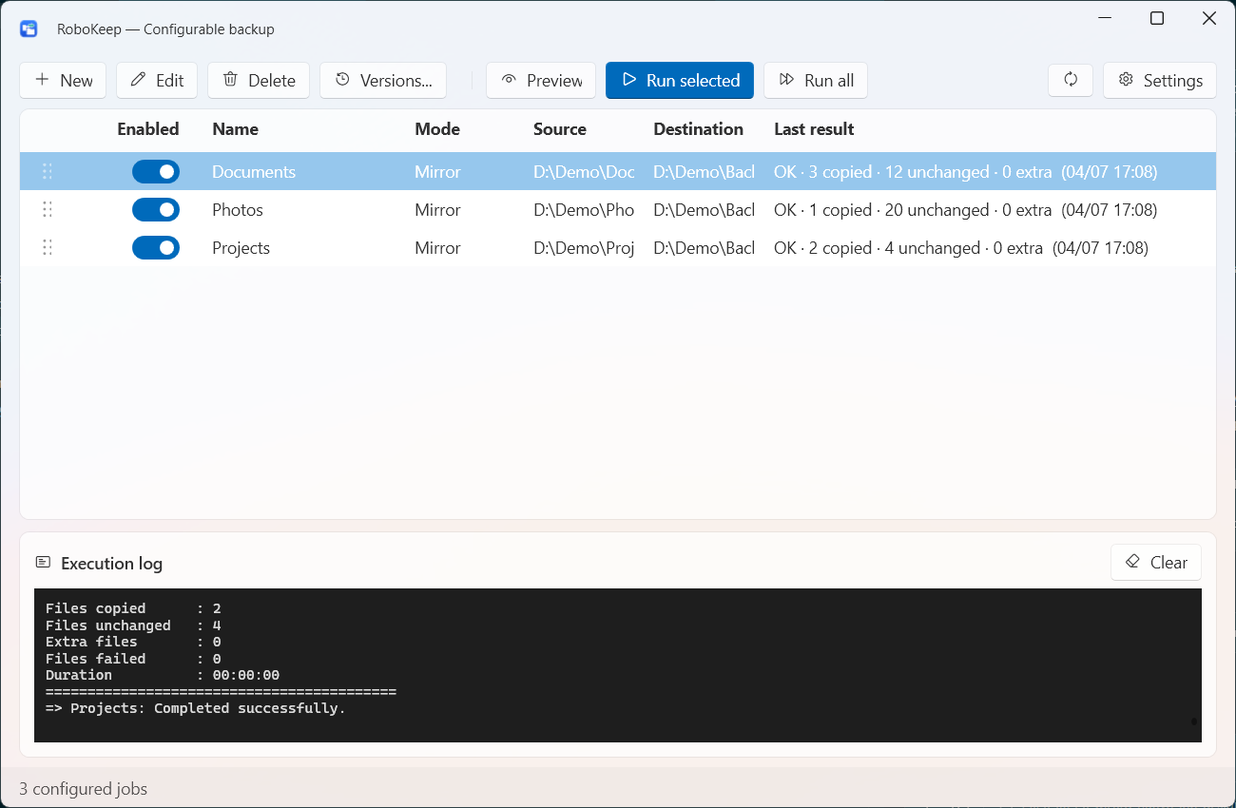
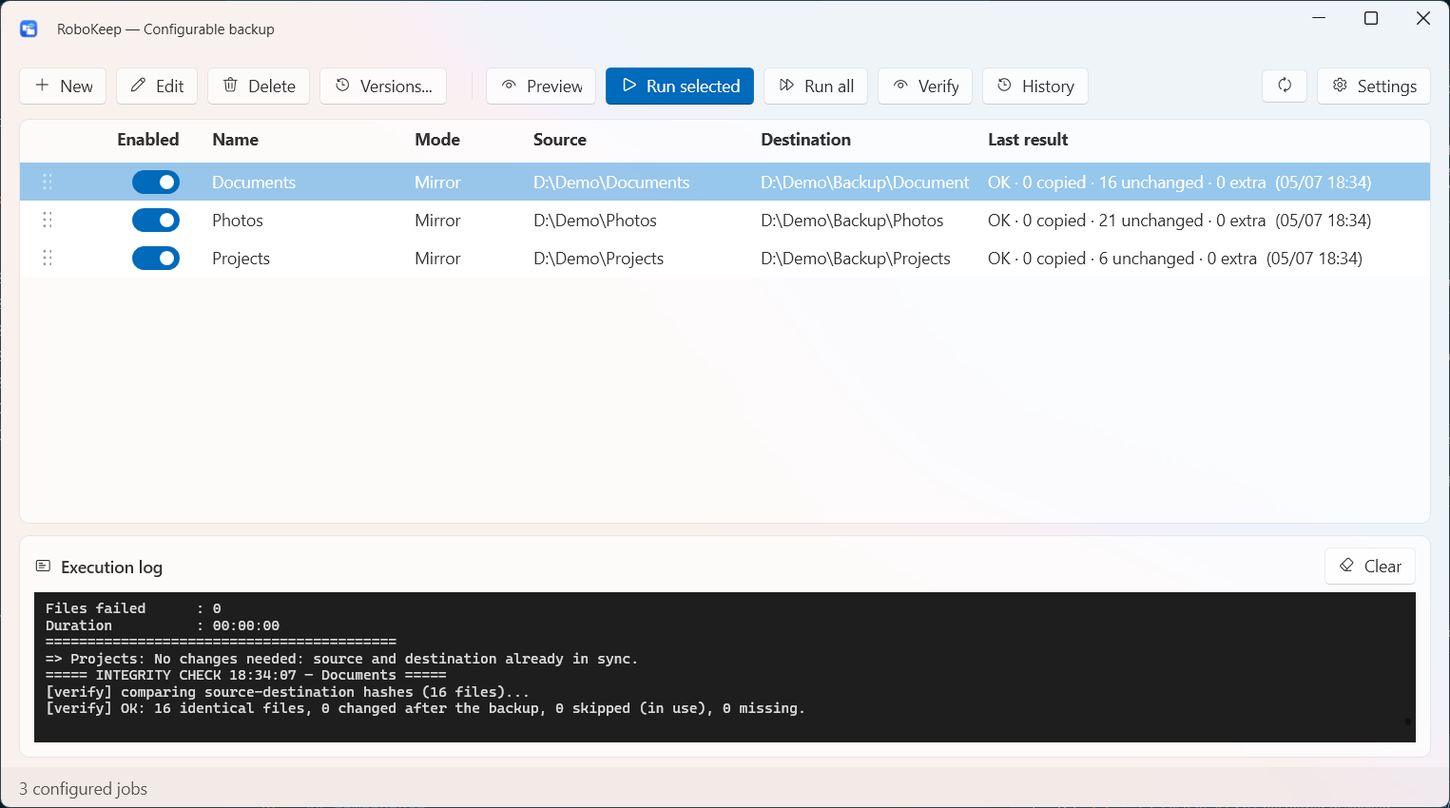
docs: README e ANALISI aggiornati alla 1.4 con nuovi screenshot
README: prova matematica, pianificazione per-job e cronologia tra i punti
di forza, galleria con cronologia ed editor pianificazione.
ANALISI: riscritta come storia del progetto - strumenti nativi, decisioni
ingegneristiche per tappa, processo di qualita, confini di scopo.

diff --git a/ANALISI.md b/ANALISI.md
@@ -1,97 +1,125 @@
-# RoboKeep — Obiettivo e scelte di progetto
+# RoboKeep — Obiettivo, scelte di progetto ed evoluzione
 
-Cosa si voleva ottenere e come è stato realizzato, sfruttando gli strumenti già presenti in Windows.
+Com'è nato, perché è fatto così, e le decisioni ingegneristiche che lo tengono in piedi.
 
 ## Obiettivo
 
-Partendo da alcuni semplici script batch personali costruiti attorno a **robocopy**, si voleva
-un'**applicazione desktop con interfaccia grafica** per gestire i backup/mirroring: la stessa copia
-affidabile di sempre, ma con la configurazione centralizzata in un unico file e modificabile da GUI,
-senza più editare script a mano.
+Tutto è partito da alcuni script batch personali costruiti attorno a **robocopy**: funzionavano,
+ma la configurazione era sparsa in decine di `.cmd` con percorsi duplicati, e ogni modifica
+significava editare script a mano. Il primo obiettivo era una **app desktop con interfaccia
+grafica**: stessa copia affidabile di sempre, configurazione centralizzata in un unico file,
+tutto modificabile da GUI.
 
-Comportamento di copia (per ogni job sorgente → destinazione, ricorsivo sulle sottocartelle):
-- **salta** i file identici (stessa data/ora di ultima modifica e dimensione);
-- **sovrascrive** in destinazione i file la cui sorgente è più recente;
-- in **mirror** (`/MIR`, default) **rimuove** dalla destinazione i file/cartelle non più presenti in sorgente;
-- con mirror disattivato (`/E`) copia e aggiorna soltanto, **senza mai cancellare**.
+Da lì la visione si è allargata: **un backup vero per Windows, di cui fidarsi** — che conserva
+uno **storico**, **avverte** quando qualcosa non va, copre anche i **file aperti** e permette di
+**verificare matematicamente** che le copie siano integre. Senza abbandonare ciò che lo rende
+solido: robocopy, locale, trasparente, portatile.
 
 ## Scelta di fondo: usare gli strumenti nativi di Windows
 
-L'idea guida è **non reinventare nulla e non aggiungere dipendenze esterne**:
+L'idea guida è **non reinventare nulla e non aggiungere dipendenze esterne**. Ogni funzione
+importante poggia su un pezzo di Windows collaudato da decenni:
 
-- **Motore di copia → il `robocopy` di sistema.** È già incluso in Windows, collaudato da anni,
-  multi-thread e **sempre aggiornato con Windows Update**. L'app si limita a costruire il comando
-  giusto, eseguirlo e leggerne l'esito — e ne mostra in **anteprima l'esatta riga di comando**, così
-  non è una scatola nera. Si usa `%WINDIR%\System32\Robocopy.exe`, non un eseguibile incluso a mano.
-- **Contorno → .NET nativo.** Compressione dei log (`System.IO.Compression`) e invio email
-  (`System.Net.Mail`) fatti direttamente in .NET, **senza tool esterni** di archiviazione o di posta.
-- **Piattaforma → .NET 10 (LTS) con WPF/MVVM.** Supporto a lungo termine e interfaccia desktop nativa Windows.
+| Funzione | Strumento nativo |
+|---|---|
+| Motore di copia | `robocopy` di sistema (multi-thread, sempre aggiornato con Windows Update) |
+| File aperti/bloccati | **Volume Shadow Copy** (snapshot del volume via WMI) |
+| Versioni senza sprecare spazio | **hard-link NTFS** (modello Time Machine/rsnapshot) |
+| Pianificazione | **Utilità di pianificazione** di Windows |
+| Password mai in chiaro | **DPAPI** (cifratura legata a macchina o utente) |
+| Compressione log, email, hash | .NET puro (`System.IO.Compression`, `System.Net.Mail`, SHA-256) |
 
-Perché non un programma di sincronizzazione già pronto (FreeFileSync, rsync e simili)? Perché si
-voleva **restare sul robocopy già in uso** e avere un'app cucita su questi job, senza imparare né
-dipendere da software di terzi: il valore aggiunto mancante non era il motore di copia, ma lo strato
-di **GUI + configurazione** sopra robocopy.
+L'app costruisce il comando giusto, lo esegue e ne legge l'esito — e mostra sempre in
+**anteprima l'esatta riga di comando**: non è una scatola nera. Perché non un sincronizzatore
+già pronto (FreeFileSync, rsync)? Perché il valore mancante non era il motore di copia, ma lo
+strato di **fiducia e usabilità** sopra robocopy: GUI, configurazione, storico, avvisi, verifica.
 
-## Design
+## Architettura
 
-App **WPF .NET 10 (MVVM)**, configurazione centralizzata in **un unico `config.json`** editabile da
-GUI. Due modalità d'uso:
-- **Interattiva (GUI):** gestione job, creazione guidata, avvio manuale, **anteprima/dry-run**, log e report.
-- **Silenziosa (CLI):** `RoboKeep.exe --run-all` / `--job "Nome"` → per le attività pianificate di Task Scheduler.
+App **WPF .NET 10 (MVVM)**, configurazione in **un unico `config.json`**. Due modalità:
+- **Interattiva (GUI):** gestione job, creazione guidata, anteprima/dry-run, log live, cronologia.
+- **Silenziosa (CLI):** `RoboKeep.exe --run-all` / `--job "Nome"` → usata dalle attività pianificate.
 
-### Architettura (3 progetti)
 ```
 src/
-  RoboKeep.Core/    libreria pura e testabile: Models + Services (engine, config, log, email, scheduler, credenziali, planner)
-  RoboKeep/         app WPF (Views + ViewModels + entry/CLI) → eseguibile RoboKeep.exe
-  RoboKeep.Tests/   xUnit (args builder, exit-code interpreter, config round-trip, planner forza copia/wizard, integrazione runner)
+  RoboKeep.Core/    libreria pura e testabile: Models + Services (engine, versioning, VSS,
+                    verifica, cronologia, scheduler, config, log, email, credenziali)
+  RoboKeep/         app WPF (Views + ViewModels + entry/CLI) → RoboKeep.exe
+  RoboKeep.Tests/   xUnit — 225 test sul cuore della logica
 ```
 
-Il cuore della logica è **puro e testabile** (nessun I/O): `RobocopyArgsBuilder` (opzioni →
-argomenti), `ExitCodeInterpreter` (exit code → esito), `ForceCopyPlanner` e `JobWizardPlanner`. L'I/O
-(processo robocopy, file, rete, email, scheduler) è isolato nei servizi.
+La regola architetturale: **la logica che decide è pura e testata; l'I/O è isolato nei servizi.**
+`RobocopyArgsBuilder` (opzioni → argomenti), `ExitCodeInterpreter`, `SnapshotPlanner` (ritenzione),
+`VssPathMapper`, `SchtasksArgs` (XML delle attività), `JobWizardPlanner` sono funzioni pure:
+ognuna ha i suoi test, nessuna tocca il disco. Ogni funzione nata da un errore visto sul campo
+ha un test che lo blocca per sempre.
 
-### Mappatura opzioni → switch robocopy (`RobocopyArgsBuilder`)
-| Opzione (GUI) | Switch |
-|---|---|
-| Mirror = on (default) | `/MIR` (cancella in dest ciò che non c'è in sorgente) |
-| Mirror = off | `/E` (copia/aggiorna ricorsivo, **non** cancella) |
-| Non sovrascrivere file più recenti in dest | `/XO` |
-| Copia ACL/owner (utile su share) | `/COPYALL` o `/COPY:DAT` (default) |
-| Esclude junction (anti-loop) | `/XJ` (sempre) |
-| Multi-thread | `/MT:<n>` |
-| File grandi — riavviabile / I/O non bufferizzato | `/Z` / `/J` (mutuamente esclusivi) |
-| Esclusioni file / cartelle | `/XF …` / `/XD …` |
-| **Forza copia** (file a data/dimensione congelate) | seconda passata `/IS /IT` sui soli pattern indicati |
-| Registra tutti i file nel log | `/V` |
-| Retry / attesa | `/R:<n>` / `/W:<n>` |
-| **Anteprima** | `/L` (elenca soltanto, non modifica) |
+## L'evoluzione, tappa per tappa
 
-**Forza copia — modalità smart:** per i file il cui contenuto cambia senza variare data/dimensione
-(container cifrati, DB), una seconda passata li ricopia comunque. In modalità *smart* l'app calcola
-un **hash SHA256** del file e lo ricopia solo se è davvero cambiato dall'ultimo backup (stato
-persistito), evitando ricopie inutili.
+### v1.0 — La GUI su robocopy
+Editor completo con **anteprima del comando**, **creazione guidata** che deriva le opzioni
+ottimali da domande in linguaggio semplice (tipo di dischi → `/MT`, file grandi → `/Z`,
+permessi → `/COPYALL`), anteprima/dry-run, log zippati per data, email, credenziali DPAPI,
+pianificazione, **forza copia** per i file a data/dimensione congelate (container cifrati) con
+modalità *smart* a confronto di hash. In **5 lingue**.
 
-**Creazione guidata (wizard):** poche domande (tipo di dischi sorgente/destinazione, comportamento,
-file speciali) → `JobWizardPlanner` deriva le opzioni ottimali (es. `/MT` in base al disco più lento,
-`/Z` per i file grandi, `/COPYALL` solo se servono i permessi) e **precompila l'editor**.
+### v1.1 — Stop ai fallimenti silenziosi
+La lezione: un backup che smette di girare senza dirlo è il peggior nemico. Quindi: **dati
+dell'app fuori da `bin/`** (`%APPDATA%\RoboKeep`, sopravvive ad aggiornamenti e pulizie),
+**allerta** per job falliti o fermi da troppo tempo, **pre-check** prima di ogni avvio
+(destinazione raggiungibile, spazio sufficiente), notifiche toast e area di notifica.
 
-### Funzionalità (opzionali, scelta utente)
-Log `.zip` per data + pulizia automatica oltre N giorni · notifiche email (sempre / solo errori) ·
-report riepilogo (copiati / saltati / extra / falliti da exit code) · credenziali per share UNC
-cifrate con **DPAPI** (ambito utente o macchina) con test di connessione · pianificazione via Task
-Scheduler · riordino job in **drag &amp; drop** · ultimo esito persistito e visibile in lista (anche
-dopo i run pianificati) · interfaccia in **5 lingue** (it/en/es/fr/de).
+### v1.2 — Versioning: lo storico che non costa spazio
+Ogni esecuzione può salvare uno **snapshot datato**: appare come un albero completo, ma i file
+invariati sono **hard-link condivisi** tra le versioni — dieci versioni non costano dieci volte
+lo spazio. Le decisioni delicate: la pre-passata che **rompe gli hard-link dei file cambiati**
+prima di robocopy (mai modificare sul posto un file condiviso con le versioni precedenti); la
+cancellazione **POSIX-safe** che rimuove una versione senza toccare il bit read-only degli inode
+ancora condivisi; il pattern **`.inprogress` + rinomina finale**, così un run interrotto non
+lascia mai una versione a metà spacciata per buona; il prefisso `\\?\` per i percorsi oltre i
+260 caratteri.
 
-## Prodotto realizzato
+### v1.3 — File aperti: lo snapshot VSS
+Outlook aperto, database in uso: robocopy li salta. Con un'opzione per job, RoboKeep fotografa
+il volume per un istante (**Volume Shadow Copy**) e copia dall'immagine congelata. Le decisioni:
+il processo elevato è **lo stesso RoboKeep.exe** rilanciato con un flag (un solo prompt UAC per
+esecuzione, nessun secondo eseguibile); i due processi comunicano con un **protocollo a file**
+(request/ready/release); un **registro con PID** degli snapshot creati permette di ripulire i
+residui dei run morti senza mai toccare gli snapshot vivi di processi concorrenti; e la regola
+d'oro: **qualunque problema VSS degrada a copia normale con avviso** — un backup parziale batte
+sempre un backup bloccato.
 
-- **Engine puro in TDD:** `RobocopyArgsBuilder`, `ExitCodeInterpreter`, `ConfigStore`,
-  `ForceCopyPlanner`, `JobWizardPlanner`, con suite di unit/integration test xUnit verde.
-- **Servizi IO:** runner robocopy (output live + cancellazione), log + archiviazione zip + pulizia,
-  credenziali DPAPI + connessione UNC, email SMTP, scheduler.
-- **GUI WPF (WPF-UI / Fluent):** lista job con drag &amp; drop ed esito, editor con anteprima del
-  comando, creazione guidata, impostazioni (generale, email, credenziali, pianificazione).
-- **CLI headless** per la schedulazione (`--run-all`, `--job`, `--dry-run`, `--config`).
-- **Verifica end-to-end** su cartelle di prova e su backup reali.
+### v1.4 — Operatività e integrità
+- **Pianificazione per-job**: un'attività di Windows per ogni job. Registrata via **XML** e non
+  coi parametri `/SC /D` di schtasks: le abbreviazioni dei giorni sono localizzate (`MON` in
+  inglese, `LUN` in italiano) e l'XML è l'unico formato identico su ogni lingua di Windows.
+- **Cronologia + visualizzatore log**: ogni backup e ogni verifica a registro (JSON, tetto 500
+  voci, lock cross-processo), log rileggibili in-app direttamente dagli zip.
+- **Verifica integrità**: confronto **SHA-256** file per file. Il dettaglio che fa la differenza:
+  se un file risulta diverso ma la sorgente è stata modificata *dopo* il backup, viene contato
+  come "modificato dopo", **non come corruzione** — una funzione che esiste per dare fiducia non
+  può gridare falsi allarmi. Le esclusioni del job vengono rispettate; i job versionati
+  verificano l'ultimo snapshot.
+- **Rallentamento** (`/IPG`) per i backup su rete — e quando è attivo il multi-thread si spegne,
+  perché robocopy applica il ritardo per thread e il limite diventerebbe imprevedibile.
+- **Esporta/importa configurazione**, con validazione, copia di sicurezza automatica e
+  riallineamento delle attività pianificate.
 
-Gli script batch iniziali non fanno parte del repository.
+## Qualità del processo
+
+Ogni tappa segue lo stesso ciclo: **brainstorming → spec scritta → piano di implementazione →
+sviluppo TDD → doppia revisione del codice → prova manuale sul campo → release**. I difetti
+trovati dalle revisioni (una corsa sul rilascio degli snapshot VSS, i falsi allarmi della
+verifica sulle esclusioni, i giorni localizzati di schtasks) sono stati corretti **prima** di
+arrivare a un utente. La suite conta **225 test**; le release pubblicano due pacchetti
+(self-contained e framework-dependent) con changelog completo.
+
+## Confini di scopo
+
+**Dentro:** tutto ciò che si appoggia a strumenti nativi Windows e resta locale/LAN.
+**Fuori (per scelta):** cloud/`rclone`, versioni macOS/Linux, copia delta/a blocchi (robocopy
+ricopia il file intero: limite accettato e documentato). Mantenere RoboKeep semplice, locale e
+trasparente vale più di ogni casella in più su una matrice di confronto.
+
+Gli script batch da cui tutto è partito non fanno parte del repository — ma è giusto ricordare
+che senza di loro RoboKeep non esisterebbe.

diff --git a/readmeita.md b/readmeita.md
@@ -12,9 +12,10 @@
 
 RoboKeep è un'app Windows amichevole che trasforma `robocopy` — il motore di copia solido come
 una roccia già incluso in ogni PC Windows — in un **vero strumento di backup**: configurazione
-punta-e-clicca, **versioni datate** dei tuoi file, copia dei **file che stai ancora usando** e
-avvisi chiari quando un backup resta indietro. **Niente cloud, niente account, niente
-abbonamenti** — i tuoi file non lasciano mai i tuoi dischi.
+punta-e-clicca, **versioni datate** dei tuoi file, copia dei **file che stai ancora usando**,
+ogni job col **suo orario**, una **cronologia** completa e la **prova matematica** che le copie
+sono integre. **Niente cloud, niente account, niente abbonamenti** — i tuoi file non lasciano
+mai i tuoi dischi.
 
 ![Finestra principale di RoboKeep: job con esiti a colpo d'occhio e log in tempo reale](docs/images/main-window.png)
 
@@ -31,6 +32,17 @@ abbonamenti** — i tuoi file non lasciano mai i tuoi dischi.
   database, file bloccati da altri programmi: con una casella, RoboKeep fotografa il disco per un
   istante (una "copia shadow" di Windows) e copia da quell'immagine congelata. E se lo snapshot
   non è possibile, il backup prosegue semplicemente nel modo normale — non si blocca mai.
+- ✅ **La prova matematica che il backup è integro** *(novità della 1.4)*. Il pulsante
+  **Verifica** rilegge ogni file da entrambi i lati e confronta le impronte digitali (SHA-256):
+  la corruzione silenziosa del disco — invisibile a qualunque controllo su data e dimensione —
+  viene scovata. E con intelligenza: un file che hai modificato *dopo* il backup viene segnalato
+  come tale, mai come falso allarme. A richiesta, o automatica dopo ogni backup per i job critici.
+- ⏰ **Ogni job col suo orario** *(novità della 1.4)*. Documenti ogni sera, foto la domenica,
+  archivi una volta al mese: ogni job ha la sua attività pianificata di Windows e parte anche ad
+  app chiusa.
+- 📜 **La memoria di ogni esecuzione** *(novità della 1.4)*. La finestra **Cronologia** elenca
+  ogni backup e ogni verifica con esito, conteggi e durata — e col doppio clic il log completo si
+  apre direttamente nell'app, senza frugare tra gli zip.
 - 🚨 **Ti avvisa quando qualcosa non va.** Un backup che fallisce in silenzio è peggio di nessun
   backup. RoboKeep segna ogni job con problemi con un'icona colorata — rossa per fallito, ambra
   per "non eseguito da troppo tempo", arancio per "era stato interrotto" — con la spiegazione in
@@ -48,6 +60,8 @@ abbonamenti** — i tuoi file non lasciano mai i tuoi dischi.
 | ![Creazione guidata](docs/images/wizard.png) | **Creazione guidata.** Poche domande in linguaggio semplice — inclusa quella sui file che restano aperti mentre lavori — e il wizard configura il job per te. |
 | ![Editor del job](docs/images/editor.png) | **Tutto sotto controllo.** Mirror o accumulo, copia dei file aperti, opzioni per i file grandi: ogni scelta spiegata in una riga, con un suggerimento dove serve. |
 | ![Anteprima comando e versioning](docs/images/editor-preview.png) | **Trasparenza totale.** Versioni datate con pulizia automatica, esclusioni per job, e il comando robocopy esatto sempre in vista. |
+| ![Cronologia esecuzioni](docs/images/history.png) | **Ogni esecuzione a registro.** Backup e verifiche fianco a fianco, filtrabili per job; doppio clic su una voce e leggi il log completo senza toccare uno zip. |
+| ![Pianificazione per job](docs/images/editor-schedule.png) | **Imposta e dimentica.** Ogni job può avere il suo orario — giornaliero, settimanale o mensile — più la verifica d'integrità automatica dopo ogni esecuzione. |
 | ![Sfoglia le versioni](docs/images/versions.png) | **Torna indietro nel tempo.** Scegli una data, un clic, e il backup di quel giorno si apre in Esplora file. Ricopia quello che ti serve. |
 
 ## Parti in due minuti
@@ -61,8 +75,9 @@ abbonamenti** — i tuoi file non lasciano mai i tuoi dischi.
 3. Avvia **`RoboKeep.exe`**, clicca **Nuovo**, rispondi alle domande della creazione guidata,
    poi **Avvia tutti**. Fatto.
 
-Vuoi che giri da solo? **Impostazioni → Pianificazione** crea un'attività pianificata di Windows
-che esegue i tuoi job all'ora che scegli — anche ad app chiusa.
+Vuoi che giri da solo? Dai a ogni job il suo orario direttamente nell'editor (giornaliero,
+settimanale o mensile), oppure usa **Impostazioni → Pianificazione** per un'unica attività
+"avvia tutto". In entrambi i casi parte anche ad app chiusa.
 
 ## Come si comporta un backup
 
@@ -80,22 +95,23 @@ E se hai attivato le versioni, ogni esecuzione salva prima lo stato precedente c
 
 **Backup**
 modalità mirror o accumulo · versioni datate con hard-link e ritenzione configurabile · copia dei
-file aperti/bloccati via VSS · copia multi-thread · esclusioni di file e cartelle per job ·
-"forza copia" per i file con data/dimensione che non cambiano mai (container cifrati, alcuni
-database), con modalità opzionale a confronto di contenuto · modalità riavviabile per i file
-enormi · anteprima/dry-run
+file aperti/bloccati via VSS · **verifica integrità (SHA-256), a richiesta o dopo ogni
+esecuzione** · copia multi-thread · esclusioni di file e cartelle per job · "forza copia" per i
+file con data/dimensione che non cambiano mai (container cifrati, alcuni database), con modalità
+opzionale a confronto di contenuto · modalità riavviabile per i file enormi · anteprima/dry-run
 
 **Ti tiene informato**
-icone di salute per job con spiegazioni in linguaggio semplice · controlli pre-avvio
-(destinazione raggiungibile, spazio disco, idoneità VSS e versioning) · log in tempo reale ·
-archivio log zippati per job con pulizia automatica · notifiche toast e area di notifica ·
-report email (SMTP), anche solo in caso di errori
+**cronologia esecuzioni con visualizzatore log in-app** · icone di salute per job con spiegazioni
+in linguaggio semplice · controlli pre-avvio (destinazione raggiungibile, spazio disco, idoneità
+VSS e versioning) · log in tempo reale · archivio log zippati per job con pulizia automatica ·
+notifiche toast e area di notifica · report email (SMTP), anche solo in caso di errori
 
 **Si adatta a te**
-creazione guidata o editor manuale completo · anteprima esatta del comando · share di rete con
-credenziali cifrate (DPAPI di Windows) · pianificazione con l'Utilità di pianificazione di
-Windows · riga di comando per l'automazione · ordinamento dei job con trascinamento · 5 lingue ·
-modalità portatile
+creazione guidata o editor manuale completo · anteprima esatta del comando · **pianificazione per
+job (giornaliera / settimanale / mensile)** · share di rete con credenziali cifrate (DPAPI di
+Windows) · **rallentamento della copia per i backup su rete** · **esporta/importa
+configurazione** · riga di comando per l'automazione · ordinamento dei job con trascinamento ·
+5 lingue · modalità portatile
 
 ## Da sapere
 
@@ -106,6 +122,9 @@ modalità portatile
   share di rete).
 - **La copia dei file aperti richiede una sorgente NTFS locale** e una conferma amministratore
   (UAC) per esecuzione.
+- **La verifica integrità rilegge ogni file da entrambi i lati**: è accurata per costruzione,
+  quindi dura all'incirca quanto un primo backup. Attiva "verifica dopo ogni backup" solo dove
+  conta davvero.
 - Impostazioni, esiti e log vivono in `%APPDATA%\RoboKeep`: sopravvivono agli aggiornamenti
   dell'app. Le password sono cifrate con DPAPI di Windows, mai salvate in chiaro.
 

diff --git a/README.md b/README.md
@@ -12,8 +12,9 @@
 
 RoboKeep is a friendly Windows app that turns `robocopy` — the rock-solid copy engine already
 built into every Windows PC — into a **real backup tool**: point-and-click setup, **dated
-versions** of your files, copying of **files you're still working on**, and clear alerts when a
-backup falls behind. **No cloud, no account, no subscription** — your files never leave your disks.
+versions** of your files, copying of **files you're still working on**, each job on **its own
+schedule**, a full **run history**, and **mathematical proof** your copies are intact.
+**No cloud, no account, no subscription** — your files never leave your disks.
 
 ![RoboKeep main window: jobs with results at a glance and a live execution log](docs/images/main-window.png)
 
@@ -30,6 +31,17 @@ backup falls behind. **No cloud, no account, no subscription** — your files ne
   files locked by other programs: with one checkbox, RoboKeep photographs the disk for an instant
   (a Windows "shadow copy") and copies from that frozen picture. And if the snapshot isn't
   possible, the backup simply continues the normal way — it never blocks.
+- ✅ **Mathematical proof your backup is intact** *(new in 1.4)*. The **Verify** button re-reads
+  every file on both sides and compares digital fingerprints (SHA-256): silent disk corruption —
+  invisible to any date/size check — gets caught. Smart, too: a file you edited *after* the
+  backup is reported as such, never as a false alarm. Run it on demand, or automatically after
+  every backup for your critical jobs.
+- ⏰ **Every job on its own schedule** *(new in 1.4)*. Documents every evening, photos on Sunday,
+  archives once a month: each job gets its own Windows scheduled task and runs even with the app
+  closed.
+- 📜 **A memory of every run** *(new in 1.4)*. The **History** window lists every backup and
+  every integrity check with outcome, counts, and duration — and a double-click opens the full
+  log right inside the app, no digging through zip files.
 - 🚨 **It tells you when something's wrong.** A backup that fails silently is worse than no
   backup. RoboKeep marks each problematic job with a colored warning icon — red for failed,
   amber for "not run in too long", orange for "was interrupted" — with a plain explanation on hover.
@@ -45,6 +57,8 @@ backup falls behind. **No cloud, no account, no subscription** — your files ne
 | ![Guided setup](docs/images/wizard.png) | **Guided setup.** A few questions in plain language — including whether files stay open while you work — and the wizard configures the job for you. |
 | ![Job editor](docs/images/editor.png) | **Everything under control.** Mirror or accumulate, open-file copying, large-file options: every choice explained in one line, with a hint where it matters. |
 | ![Command preview and versioning](docs/images/editor-preview.png) | **Total transparency.** Dated versions with automatic cleanup, per-job exclusions, and the exact robocopy command always in view. |
+| ![Run history](docs/images/history.png) | **Every run on record.** Backups and integrity checks side by side, filtered per job; double-click any entry to read its full log without touching a zip file. |
+| ![Per-job scheduling](docs/images/editor-schedule.png) | **Set it and forget it.** Each job can have its own schedule — daily, weekly, or monthly — plus automatic integrity verification after every run. |
 | ![Browse versions](docs/images/versions.png) | **Go back in time.** Pick a date, click, and that day's backup opens in File Explorer. Copy back whatever you need. |
 
 ## Get started in two minutes
@@ -57,8 +71,9 @@ backup falls behind. **No cloud, no account, no subscription** — your files ne
    `C:\Program Files`).
 3. Run **`RoboKeep.exe`**, click **New**, answer the wizard's questions, then **Run all**. Done.
 
-Want it to run by itself? **Settings → Scheduling** creates a Windows scheduled task that runs
-all your jobs at the time you choose — even with the app closed.
+Want it to run by itself? Give each job its own schedule right in the editor (daily, weekly, or
+monthly), or use **Settings → Scheduling** for a single "run everything" task. Either way, it
+runs even with the app closed.
 
 ## How a backup behaves
 
@@ -76,20 +91,22 @@ And if you enabled versions, each run first saves the previous state as a dated 
 
 **Backing up**
 mirror or accumulate mode · dated versions with hard-links and configurable retention ·
-open/locked file copying via VSS · multi-threaded copying · per-job file and folder exclusions ·
-"force copy" for files whose date/size never change (encrypted containers, some databases), with
-an optional content-hash mode · restartable mode for huge files · preview/dry-run
+open/locked file copying via VSS · **integrity verification (SHA-256), on demand or after every
+run** · multi-threaded copying · per-job file and folder exclusions · "force copy" for files
+whose date/size never change (encrypted containers, some databases), with an optional
+content-hash mode · restartable mode for huge files · preview/dry-run
 
 **Keeping you informed**
-per-job health icons with plain-language tooltips · pre-run checks (destination reachable, disk
-space, VSS and versioning eligibility) · real-time log · per-job zipped log archive with
-automatic cleanup · toast notifications and system tray · email reports (SMTP), optionally only
-on errors
+**run history with in-app log viewer** · per-job health icons with plain-language tooltips ·
+pre-run checks (destination reachable, disk space, VSS and versioning eligibility) · real-time
+log · per-job zipped log archive with automatic cleanup · toast notifications and system tray ·
+email reports (SMTP), optionally only on errors
 
 **Fitting your setup**
-guided wizard or full manual editor · exact command preview · network shares with encrypted
-credentials (Windows DPAPI) · scheduling via Windows Task Scheduler · command line for automation ·
-drag & drop job ordering · 5 languages · portable mode
+guided wizard or full manual editor · exact command preview · **per-job scheduling (daily /
+weekly / monthly)** · network shares with encrypted credentials (Windows DPAPI) · **copy
+throttling for network backups** · **configuration export/import** · command line for
+automation · drag & drop job ordering · 5 languages · portable mode
 
 ## Good to know
 
@@ -99,6 +116,9 @@ drag & drop job ordering · 5 languages · portable mode
 - **Versions need a local NTFS destination** (hard-links don't exist on exFAT or network shares).
 - **Open-file copying needs a local NTFS source** and asks for one administrator confirmation
   (UAC) per run.
+- **Integrity checks re-read every file on both sides**: thorough by design, so expect a check
+  to take roughly as long as a first backup. Enable "verify after each backup" only where it
+  matters.
 - Your settings, results, and logs live in `%APPDATA%\RoboKeep`, so they survive app updates.
   Passwords are encrypted with Windows DPAPI, never stored in plain text.
 
